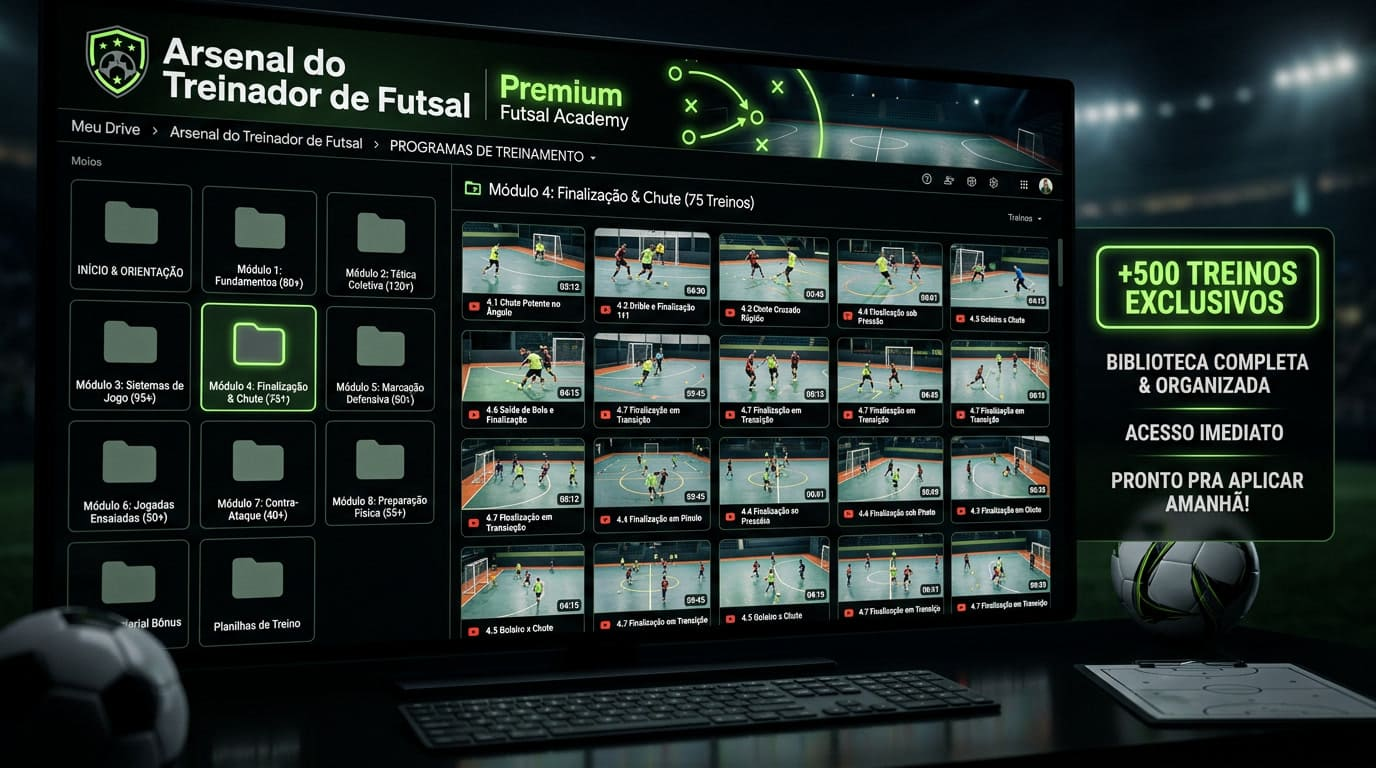
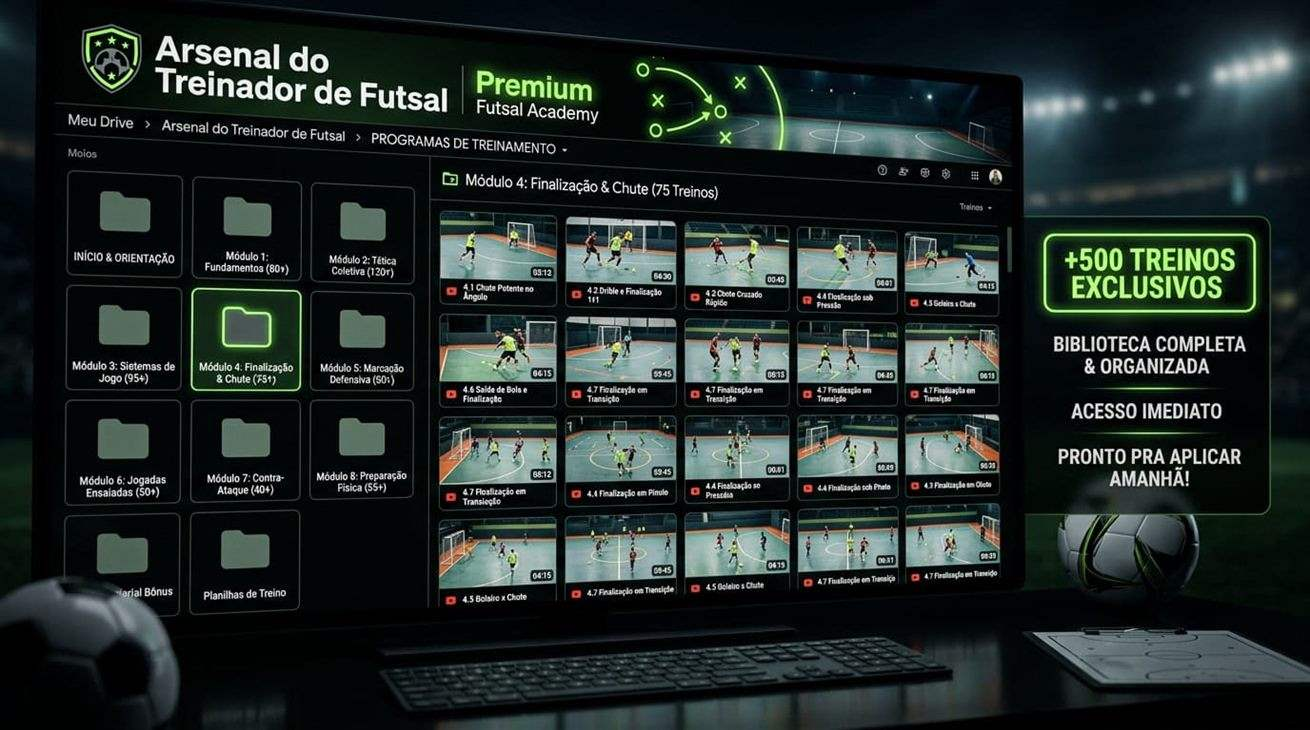
otimiza imagem hero, adiciona cache headers via vercel.json

diff --git a/index.html b/index.html
@@ -807,7 +807,8 @@
         </div>
       </div>
       <div class="mockup-img">
-        <img src="assets/product-mockup.jpg" alt="Arsenal do Treinador de Futsal — preview do produto" fetchpriority="high">
+        <img src="assets/product-mockup.jpg" alt="Arsenal do Treinador de Futsal — preview do produto"
+             width="1310" height="730" fetchpriority="high">
         <div class="mockup-img-tag">PRODUTO · v.2026</div>
       </div>
     </div>